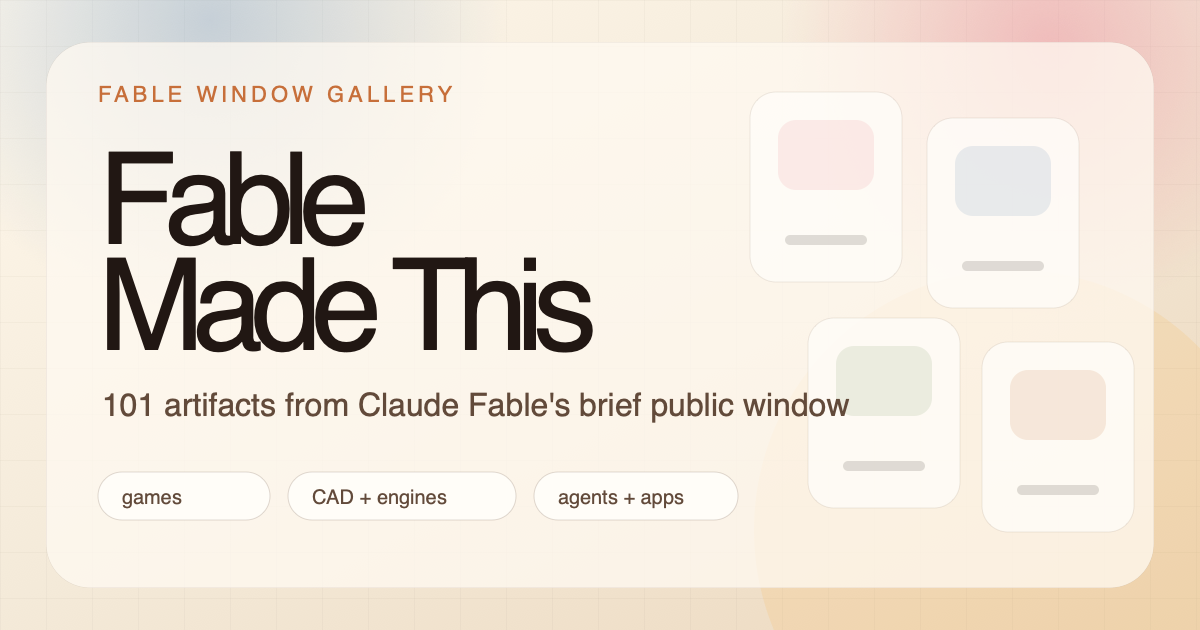
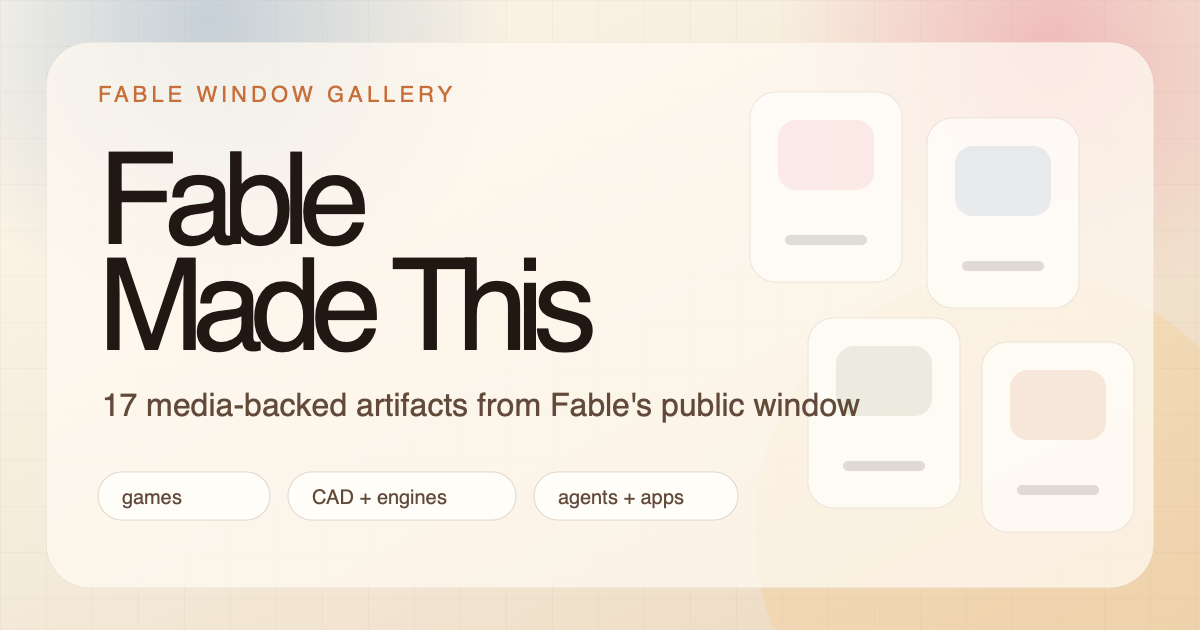
Curate gallery to media-backed artifacts

Changed region(s): [[0.0925, 0.6032, 0.74, 0.6635]]

diff --git a/src/styles.css b/src/styles.css
@@ -208,28 +208,11 @@ h1 {
   transform: translateY(-22px) scale(1.02);
 }
 
-.previewTile .media,
-.previewTile .generatedMedia {
+.previewTile .media {
   height: 100%;
   margin: 0;
   border: 0;
   border-radius: 0;
-}
-
-.previewTile .generatedMedia {
-  min-height: 100%;
-  padding: 16px;
-}
-
-.previewTile .generatedMedia strong {
-  max-width: 9ch;
-  font-size: clamp(1.35rem, 2.4vw, 2.35rem);
-  line-height: 0.9;
-}
-
-.previewTile .generatedMedia small,
-.previewTile .generatedMedia > span {
-  display: none;
 }
 
 .previewTile span {
@@ -434,8 +417,7 @@ select {
   transform: translateX(0);
 }
 
-.media,
-.generatedMedia {
+.media {
   position: relative;
   z-index: 1;
   width: 100%;
@@ -452,69 +434,9 @@ select {
 }
 
 .card:hover .media,
-.card:hover .generatedMedia,
-.card:focus-visible .media,
-.card:focus-visible .generatedMedia {
+.card:focus-visible .media {
   filter: saturate(1.08) contrast(1.03);
   transform: scale(1.018);
-}
-
-.generatedMedia {
-  display: flex;
-  min-height: 260px;
-  flex-direction: column;
-  justify-content: space-between;
-  padding: 22px;
-  background:
-    radial-gradient(circle at 22% 16%, rgba(255, 190, 112, 0.85), transparent 9rem),
-    radial-gradient(circle at 88% 76%, rgba(92, 136, 183, 0.44), transparent 12rem),
-    linear-gradient(135deg, #fff3df, #edc9ac);
-}
-
-.generatedMedia.first-principles-engines {
-  background:
-    radial-gradient(circle at 22% 15%, rgba(92, 136, 183, 0.42), transparent 9rem),
-    radial-gradient(circle at 84% 74%, rgba(246, 193, 111, 0.52), transparent 12rem),
-    linear-gradient(135deg, #f7f2df, #d4e1d2);
-}
-
-.generatedMedia.taste-and-polish {
-  background:
-    radial-gradient(circle at 18% 18%, rgba(232, 129, 148, 0.52), transparent 9rem),
-    radial-gradient(circle at 82% 70%, rgba(246, 193, 111, 0.48), transparent 12rem),
-    linear-gradient(135deg, #fff0e7, #f1d2dc);
-}
-
-.generatedMedia.long-horizon-agents {
-  background:
-    radial-gradient(circle at 20% 15%, rgba(127, 157, 114, 0.42), transparent 9rem),
-    radial-gradient(circle at 82% 75%, rgba(92, 136, 183, 0.42), transparent 12rem),
-    linear-gradient(135deg, #edf3df, #e8d7bd);
-}
-
-.generatedMedia span {
-  width: fit-content;
-  border-radius: 999px;
-  padding: 7px 10px;
-  background: rgba(255, 252, 246, 0.64);
-  color: #674c3a;
-  font-size: 0.72rem;
-  font-weight: 900;
-  letter-spacing: 0.06em;
-  text-transform: uppercase;
-}
-
-.generatedMedia strong {
-  max-width: 12ch;
-  color: #241812;
-  font-size: clamp(2.25rem, 5vw, 4.3rem);
-  line-height: 0.88;
-  letter-spacing: -0.09em;
-}
-
-.generatedMedia small {
-  color: #6f4d36;
-  font-weight: 900;
 }
 
 .card h2 {
@@ -897,10 +819,6 @@ footer {
   .previewTile {
     min-height: 145px;
     border-radius: 22px;
-  }
-
-  .previewTile .generatedMedia strong {
-    font-size: clamp(1.15rem, 7vw, 1.7rem);
   }
 
   .controls {

diff --git a/src/main.jsx b/src/main.jsx
@@ -1,27 +1,11 @@
 import React, { useEffect, useMemo, useRef, useState } from "react";
 import { createRoot } from "react-dom/client";
 import projects from "./data/projects.json";
-import candidates from "./data/candidates.json";
 import "./styles.css";
 
 const assetPath = (path) => (path?.startsWith("/") ? `${import.meta.env.BASE_URL}${path.slice(1)}` : path);
 
-const promotedCandidates = candidates.map((candidate, index) => ({
-  id: `promoted-${candidate.id}`,
-  title: candidate.title,
-  creator: candidate.creator,
-  category: candidate.category,
-  impressiveness: Math.max(70, 88 - Math.floor(index / 7)),
-  proof: `${candidate.evidence.replace(/^Type: /, "")} via ${candidate.sourceCollection}`,
-  whyItMatters: candidate.summary,
-  sourceUrl: candidate.sourceUrl,
-  createdDuringWindow: candidate.evidence.includes("Date:") ? candidate.evidence.replace(/^Type: /, "") : "Source-backed lead",
-  tags: candidate.tags,
-  status: "source-backed",
-  visual: "generated"
-}));
-
-const galleryItems = [...projects, ...promotedCandidates];
+const galleryItems = projects.filter((project) => project.media);
 const categories = ["All", ...Array.from(new Set(galleryItems.map((project) => project.category)))];
 const featuredItems = galleryItems.slice(0, 8);
 const windowLabel = "June 9-13, 2026";
@@ -41,7 +25,7 @@ const synthesisThemes = [
   {
     title: "2. It held the plot across long horizons",
     body:
-      "Anthropic's own framing matches the gallery: Fable's lead grows as tasks get longer and more complex. The strongest public artifacts are not clever one-screen tricks; they are sustained runs with many dependent choices. Codebase migrations, 74-file PR reviews, multi-hour game builds, autonomous MMO loops, and multi-stage research workflows all test whether the model remembers what it is building after the novelty of the first response is gone.",
+      "Anthropic's own framing matches the gallery: Fable's lead grows as tasks get longer and more complex. The strongest public artifacts are not clever one-screen tricks; they are sustained runs with many dependent choices. Multi-hour game builds, automated MMO loops, media pipelines, CAD systems, and world simulations all test whether the model remembers what it is building after the novelty of the first response is gone.",
     sourceUrl: "https://www-cdn.anthropic.com/d00db56fa754a1b115b6dd7cb2e3c342ee809620.pdf",
     sourceLabel: "System card"
   },
@@ -69,28 +53,12 @@ const synthesisThemes = [
 ];
 
 const synthesisSignals = [
-  `${galleryItems.length} curated artifacts`,
-  "Worlds, engines, agents, and polished interfaces",
-  "12 long-horizon agent examples",
+  `${galleryItems.length} media-backed artifacts`,
+  "Only cards with a visible artifact, video, or screenshot",
+  "Worlds, engines, games, agents, and polished interfaces",
   "Same underlying capabilities as Mythos 5",
   "1M token context and up to 128k output"
 ];
-
-function GeneratedVisual({ item }) {
-  const words = item.title
-    .split(/\s+/)
-    .filter(Boolean)
-    .slice(0, 4)
-    .join(" ");
-
-  return (
-    <div className={`generatedMedia ${item.category.toLowerCase().replace(/[^a-z0-9]+/g, "-")}`}>
-      <span>{item.category}</span>
-      <strong>{words}</strong>
-      <small>{item.creator}</small>
-    </div>
-  );
-}
 
 function Media({ item }) {
   if (item.media?.type === "video") {
@@ -104,8 +72,7 @@ function Media({ item }) {
   if (item.media?.type === "image") {
     return <img className="media" src={assetPath(item.media.src)} alt="" loading="lazy" />;
   }
-
-  return <GeneratedVisual item={item} />;
+  return null;
 }
 
 function cardDestination(item) {
@@ -226,8 +193,9 @@ function App() {
           <p className="eyebrow">Fable Window Gallery</p>
           <h1>Fable Made This</h1>
           <p className="dek">
-            {galleryItems.length} artifacts from the few public days when Claude Fable felt less like a chatbot and more
-            like a builder: games, worlds, agents, CAD tools, simulations, visual systems, and polished product surfaces.
+            {galleryItems.length} media-backed artifacts from the few public days when Claude Fable felt less like a
+            chatbot and more like a builder: games, worlds, agents, CAD tools, simulations, visual systems, and polished
+            product surfaces.
           </p>
           <div className="stats">
             <span>{windowLabel}</span>
@@ -284,7 +252,8 @@ function App() {
           <p className="eyebrow">Gallery</p>
           <h2>Browse the artifacts</h2>
           <p>
-            Bigger thumbnails, lighter cards, and quick filters. Hover or focus a card to reveal the source trail.
+            The gallery now only keeps examples with a visible artifact, screenshot, or video. Hover or focus a card to
+            reveal the source trail.
           </p>
         </div>
         <strong>{filtered.length}</strong>
@@ -389,7 +358,7 @@ function App() {
           <p>
             The public reaction was not just benchmark excitement. It was a threshold feeling: people watched a model
             turn underspecified creative intent into complete, inspectable artifacts with working mechanics and enough
-            design taste to feel authored.
+            design taste to feel authored. This page intentionally privileges examples you can understand by looking.
           </p>
         </div>
         <div className="thesisPanel">
@@ -426,7 +395,7 @@ function App() {
         <a href={catalogUrl} target="_blank" rel="noreferrer">
           Anil-matcha/awesome-claude-fable-5
         </a>
-        , which collected many of the original posts used for source-backed entries. Every card links to the playable
+        , which collected many of the original posts used for source-backed leads. Every card links to the playable
         artifact when available, otherwise to the original source. Missing something great?{" "}
         <a href={submissionUrl} target="_blank" rel="noreferrer">
           Submit it here

diff --git a/index.html b/index.html
@@ -3,31 +3,31 @@
   <head>
     <meta charset="UTF-8" />
     <meta name="viewport" content="width=device-width, initial-scale=1.0" />
-    <title>Fable Made This — 101 Claude Fable artifacts</title>
+    <title>Fable Made This — 17 Claude Fable artifacts</title>
     <meta
       name="description"
-      content="A browsable archive of 101 Claude Fable artifacts from the brief public window: games, CAD tools, simulations, agents, polished apps, and analysis of why the model felt different."
+      content="A curated gallery of 17 media-backed Claude Fable artifacts from the brief public window: games, CAD tools, simulations, agents, polished apps, and analysis of why the model felt different."
     />
     <meta name="theme-color" content="#f4ead9" />
-    <meta property="og:title" content="Fable Made This — 101 Claude Fable artifacts" />
+    <meta property="og:title" content="Fable Made This — 17 Claude Fable artifacts" />
     <meta property="og:url" content="https://manosai.github.io/fable-made-this/" />
     <meta
       property="og:description"
-      content="A browsable record of the brief Fable window: one-shot awe, design taste, first-principles engines, long-horizon agents, and polished product surfaces."
+      content="A stricter, visual record of the brief Fable window: one-shot awe, design taste, first-principles engines, long-horizon agents, and polished product surfaces."
     />
     <meta property="og:image" content="https://manosai.github.io/fable-made-this/social-card.png" />
-    <meta property="og:image:alt" content="Fable Made This, a gallery of 101 Claude Fable artifacts from the brief public window." />
+    <meta property="og:image:alt" content="Fable Made This, a gallery of 17 media-backed Claude Fable artifacts from the brief public window." />
     <meta property="og:image:width" content="1200" />
     <meta property="og:image:height" content="630" />
     <meta property="og:type" content="website" />
     <meta name="twitter:card" content="summary_large_image" />
-    <meta name="twitter:title" content="Fable Made This — 101 Claude Fable artifacts" />
+    <meta name="twitter:title" content="Fable Made This — 17 Claude Fable artifacts" />
     <meta
       name="twitter:description"
-      content="A browsable record of what people built when Claude Fable briefly felt less like a chatbot and more like a builder."
+      content="A stricter visual record of what people built when Claude Fable briefly felt less like a chatbot and more like a builder."
     />
     <meta name="twitter:image" content="https://manosai.github.io/fable-made-this/social-card.png" />
-    <meta name="twitter:image:alt" content="Fable Made This, a gallery of 101 Claude Fable artifacts from the brief public window." />
+    <meta name="twitter:image:alt" content="Fable Made This, a gallery of 17 media-backed Claude Fable artifacts from the brief public window." />
   </head>
   <body>
     <div id="root"></div>